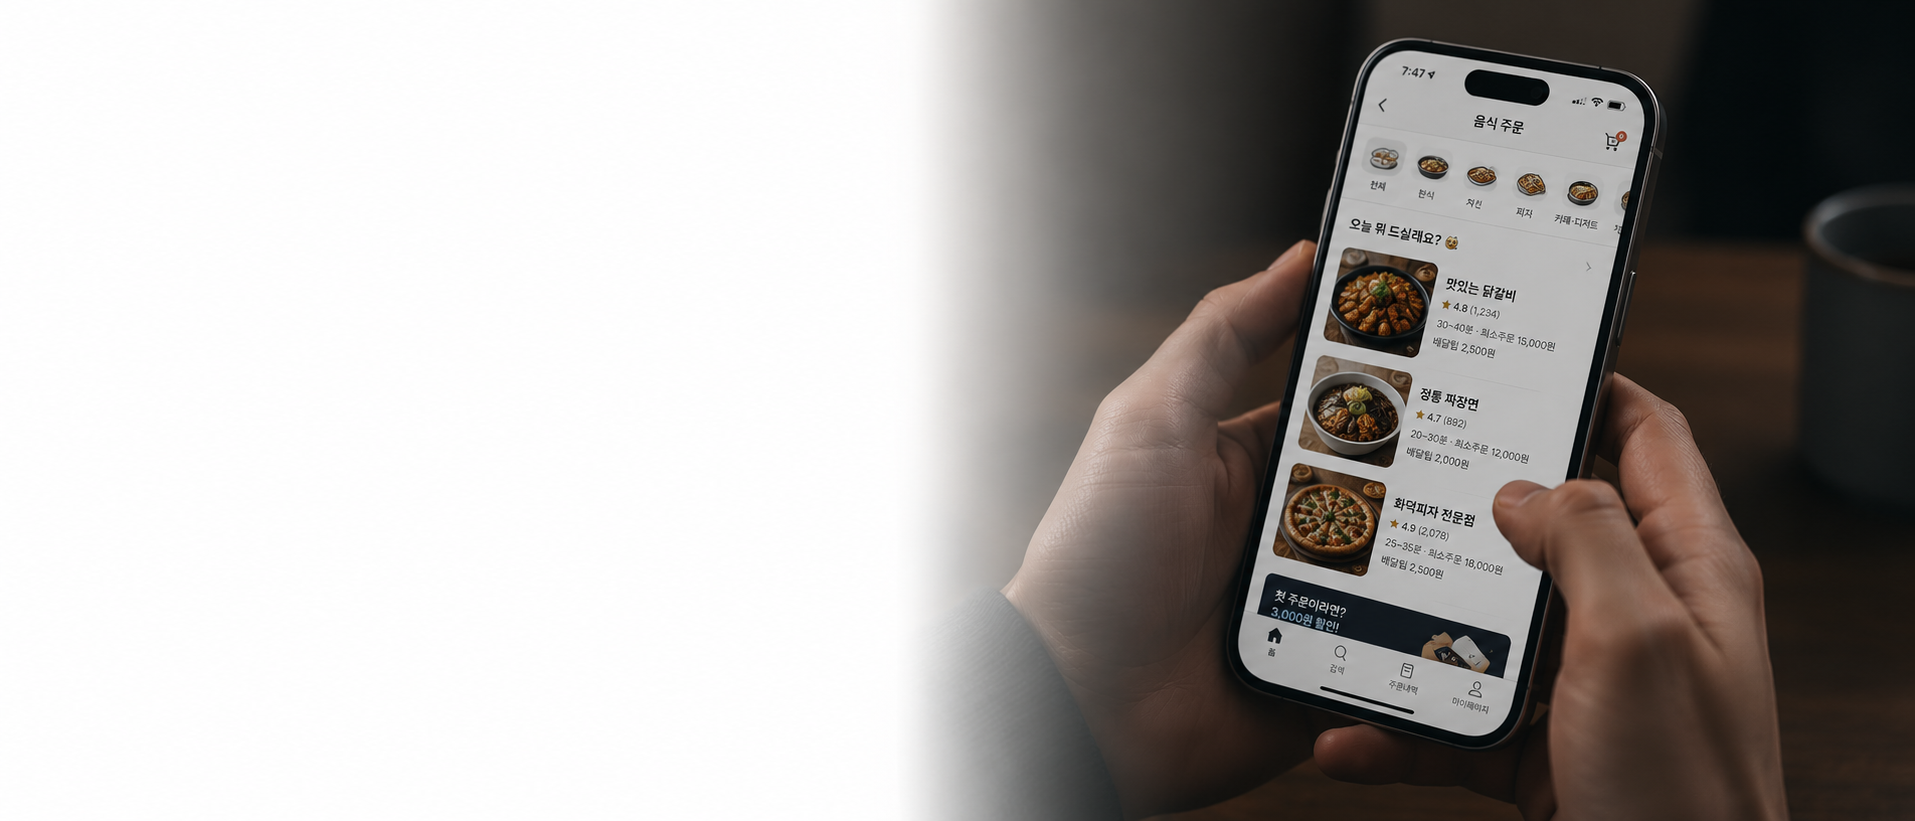
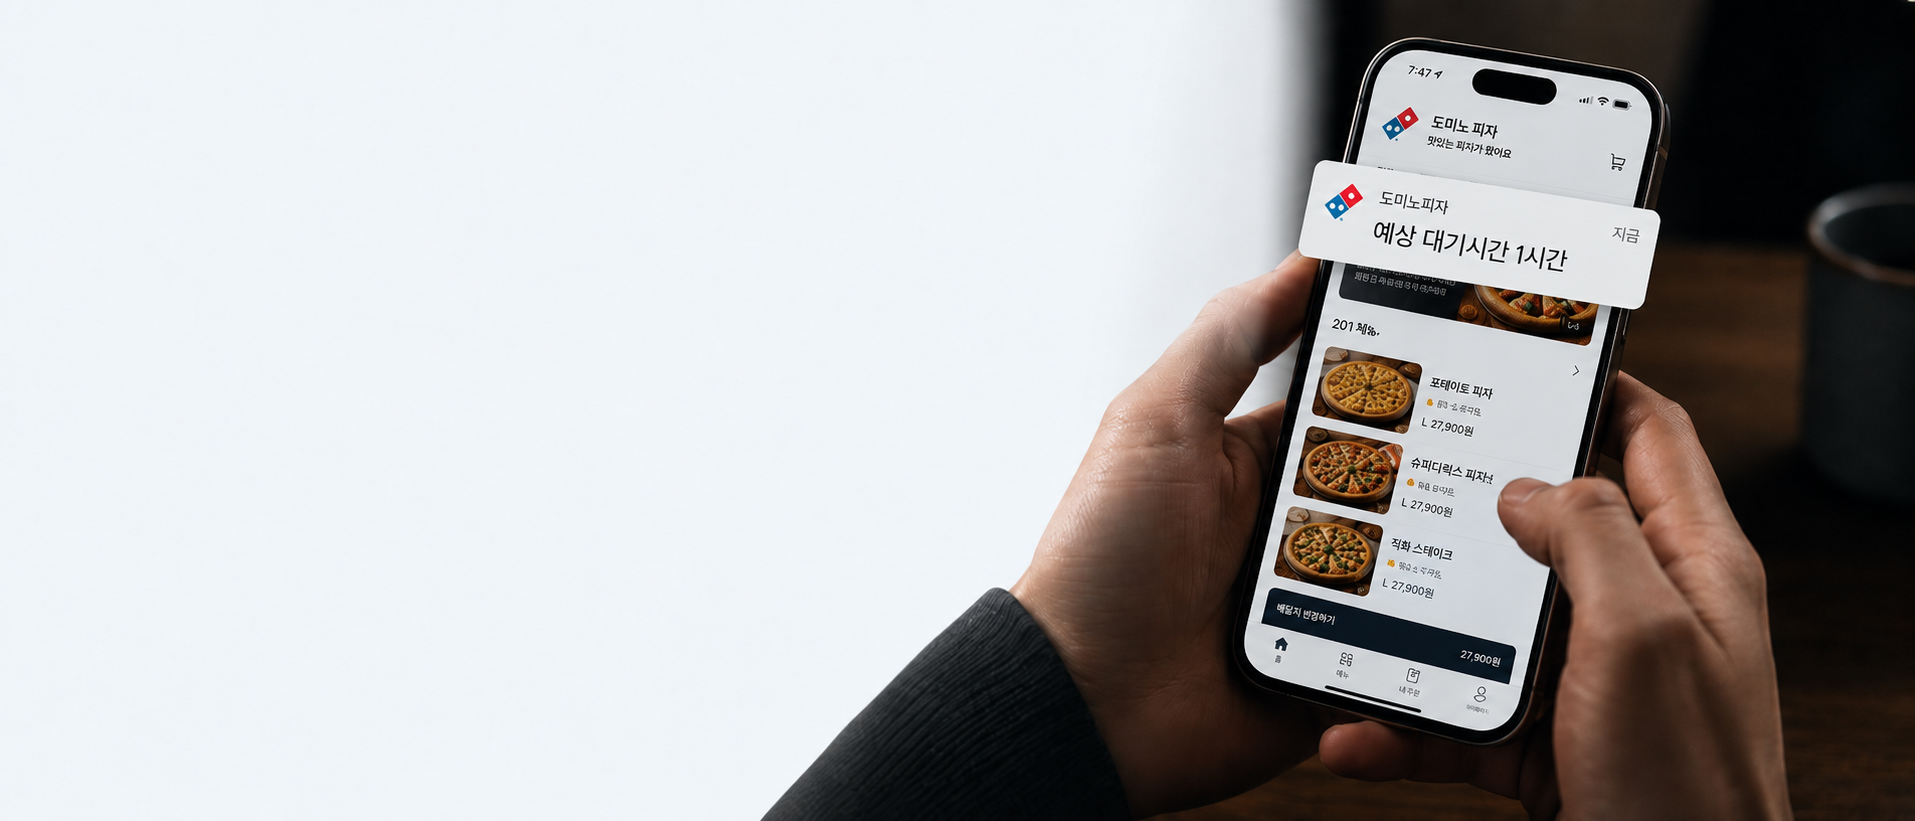
Add files via upload

Changed region(s): [[0.4005, 0.0, 0.9243, 1.0], [0.9551, 0.2436, 0.9859, 0.2741]]

diff --git a/styles.css b/styles.css
@@ -9,6 +9,7 @@
   --paper: #f5fbff;
   --line: rgba(8, 35, 69, .13);
   --shadow: 0 26px 80px rgba(0, 61, 123, .18);
+  --sky-gradient: linear-gradient(90deg, #07b7ee 0%, #2acdf4 52%, #00a9df 100%);
 }
 
 * { box-sizing: border-box; }
@@ -23,23 +24,23 @@ button, a { -webkit-tap-highlight-color: transparent; }
 .ticker b { color: var(--yellow); }
 @keyframes marquee { to { transform: translateX(-50%); } }
 
-.site-header { position: absolute; z-index: 30; top: 34px; left: 0; width: 100%; height: 88px; padding: 0 clamp(30px, 5vw, 86px); display: flex; align-items: center; gap: 50px; border-bottom: 1px solid rgba(255,255,255,.42); }
-.brand img { width: 174px; }
-.site-header nav { display: flex; gap: 34px; margin-left: auto; color: white; font-size: 14px; font-weight: 800; }
+.site-header { position: fixed; z-index: 30; top: 0; left: 0; width: 100%; height: 70px; padding: 0 clamp(30px, 5vw, 86px); display: flex; align-items: center; gap: 44px; background: rgba(255,255,255,.8); border-bottom: 1px solid rgba(255,255,255,.88); box-shadow: 0 8px 28px rgba(0,78,140,.08); backdrop-filter: blur(14px); -webkit-backdrop-filter: blur(14px); }
+.brand img { width: 150px; }
+.site-header nav { display: flex; gap: 34px; margin-left: auto; color: var(--navy); font-size: 14px; font-weight: 800; }
 .site-header nav a { position: relative; }
-.site-header nav a::after { content: ""; position: absolute; left: 0; bottom: -8px; width: 0; height: 2px; background: white; transition: width .25s ease; }
+.site-header nav a::after { content: ""; position: absolute; left: 0; bottom: -8px; width: 0; height: 2px; background: var(--blue); transition: width .25s ease; }
 .site-header nav a:hover::after { width: 100%; }
-.header-cta { padding: 14px 22px; color: white; background: var(--red); border-radius: 4px; font-size: 14px; font-weight: 900; box-shadow: 0 10px 24px rgba(181, 0, 26, .24); transition: transform .2s ease; }
+.header-cta { padding: 11px 19px; color: white; background: var(--red); border-radius: 4px; font-size: 13px; font-weight: 900; box-shadow: 0 10px 24px rgba(181, 0, 26, .24); transition: transform .2s ease; }
 .header-cta:hover { transform: translateY(-2px); }
 
 .section-grid { display: grid; grid-template-columns: 38% 62%; }
-.hero { position: relative; min-height: 830px; padding-top: 122px; overflow: hidden; color: white; background: linear-gradient(135deg, #07b7ee 0%, #2acdf4 52%, #00a9df 100%); }
+.hero { position: relative; min-height: 880px; padding-top: 122px; overflow: hidden; color: white; background: var(--sky-gradient); }
 .hero::before { content: ""; position: absolute; inset: 0; opacity: .38; background-image: linear-gradient(120deg, transparent 46%, rgba(255,255,255,.18) 46%, rgba(255,255,255,.18) 47%, transparent 47%), radial-gradient(circle at 20% 30%, white 0 2px, transparent 3px); background-size: 100% 100%, 180px 180px; }
-.hero::after { content: ""; position: absolute; left: -5%; right: -5%; bottom: -95px; height: 180px; background: var(--paper); transform: rotate(-2.5deg); z-index: 8; }
+.hero::after { display: none; }
 .hero-copy { position: relative; z-index: 10; align-self: center; padding: 45px 0 95px clamp(30px, 6vw, 100px); }
 .eyebrow { display: inline-flex; align-items: center; gap: 9px; margin-bottom: 12px; font-size: 12px; font-weight: 900; letter-spacing: .12em; transform: translateY(-18px); }
 .eyebrow i { width: 8px; height: 8px; border-radius: 50%; background: var(--red); box-shadow: 0 0 0 5px rgba(227,24,55,.2); }
-.campaign-title { width: min(610px, 112%); height: auto; max-width: none; margin: -8px 0 2px -24px; filter: drop-shadow(0 10px 10px rgba(0, 75, 140, .2)); }
+.campaign-title { width: min(700px, 128%); height: auto; max-width: none; margin: -12px 0 2px -30px; filter: drop-shadow(0 10px 10px rgba(0, 75, 140, .2)); }
 .hero h1, .section-heading h2, .benefit h2, .how h2, .final-cta h2 { margin: 0; font-size: clamp(42px, 4vw, 68px); line-height: 1.08; letter-spacing: -.055em; font-weight: 950; }
 em { color: var(--yellow); font-style: normal; }
 .hero-sub { margin: 25px 0 28px; font-size: 17px; line-height: 1.75; }
@@ -50,24 +51,22 @@ em { color: var(--yellow); font-style: normal; }
 .primary-cta b { grid-column: 1; font-size: 17px; align-self: start; }
 .primary-cta .arrow { grid-column: 2; grid-row: 1 / 3; width: 42px; height: 42px; display: grid; place-items: center; color: var(--navy); background: white; border-radius: 50%; font-size: 22px; }
 .primary-cta:hover { transform: translateY(-4px); box-shadow: 0 20px 42px rgba(0, 34, 83, .36); }
-.hero .primary-cta { min-width: 340px; min-height: 80px; padding: 13px 18px 13px 26px; }
-.hero .primary-cta > span:first-child { font-size: 13px; line-height: 1.35; opacity: .82; }
-.hero .primary-cta b { font-size: 22px; line-height: 1.25; }
-.hero .primary-cta .arrow { width: 48px; height: 48px; font-size: 25px; }
-.text-link { padding-bottom: 5px; border-bottom: 1px solid rgba(255,255,255,.7); font-size: 13px; font-weight: 800; }
+.hero .primary-cta { min-width: 0; width: auto; min-height: 58px; padding: 0 8px 0 28px; display: flex; align-items: center; justify-content: center; gap: 18px; background: var(--red); }
+.hero .primary-cta b { grid-column: auto; align-self: auto; font-size: 20px; line-height: 1; white-space: nowrap; }
+.hero .primary-cta .arrow { grid-column: auto; grid-row: auto; width: 34px; height: 34px; color: var(--red); background: white; font-size: 19px; }
+.text-link { padding: 6px 12px; display: inline-flex; align-items: center; gap: 7px; border-bottom: 1px solid rgba(255,255,255,.7); font-size: 13px; font-weight: 800; line-height: 1.2; text-align: left; }
+.text-link .link-copy { display: flex; flex-direction: column; align-items: flex-start; }
+.text-link .link-copy b { min-width: 2em; font: inherit; }
+.text-link .down-arrow { font-size: 15px; }
 .trust-list { display: flex; gap: 10px; padding: 0; margin: 28px 0 0; list-style: none; }
 .trust-list li { padding: 8px 12px; border: 1px solid rgba(255,255,255,.48); border-radius: 20px; font-size: 11px; font-weight: 800; backdrop-filter: blur(6px); }
 
 .hero-visual { position: relative; min-width: 0; z-index: 6; }
 .sun-glow { position: absolute; width: 540px; height: 540px; top: 90px; right: 7%; border-radius: 50%; background: rgba(255,255,255,.2); box-shadow: 0 0 120px rgba(255,255,255,.35); }
-.hero-people { position: absolute; z-index: 3; width: min(1360px, 137%); max-width: none; right: -19%; bottom: 0; filter: drop-shadow(0 30px 30px rgba(0,76,133,.18)); animation: heroIn 1s cubic-bezier(.17,.84,.44,1) both; transform-origin: bottom center; }
+.hero-people { position: absolute; z-index: 3; width: min(1620px, 163%); max-width: none; right: -29%; bottom: -8px; filter: drop-shadow(0 30px 30px rgba(0,76,133,.18)); animation: heroIn 1s cubic-bezier(.17,.84,.44,1) both; transform-origin: bottom center; }
 @keyframes heroIn { from { opacity: 0; transform: translate(50px, 40px) scale(.97); } }
 .hero-pizza { position: absolute; z-index: 5; width: 260px; right: 2%; bottom: 18px; filter: drop-shadow(0 24px 20px rgba(17,51,67,.36)); animation: floatPizza 4s ease-in-out infinite; }
 @keyframes floatPizza { 50% { transform: translateY(-13px) rotate(2deg); } }
-.discount-sticker { position: absolute; z-index: 7; top: 180px; left: 3%; width: 148px; height: 148px; display: flex; flex-direction: column; align-items: center; justify-content: center; color: white; background: var(--red); border-radius: 50%; box-shadow: 0 13px 0 #ae0924, 0 30px 50px rgba(0,68,115,.25); transform: rotate(-8deg); }
-.discount-sticker::before { content: ""; position: absolute; inset: 7px; border: 2px dashed rgba(255,255,255,.75); border-radius: inherit; }
-.discount-sticker small, .discount-sticker b { position: relative; font-size: 10px; }
-.discount-sticker strong { position: relative; font-size: 49px; line-height: 1; letter-spacing: -.08em; }
 .match-tag { position: absolute; z-index: 8; right: 30%; bottom: 94px; padding: 12px 19px; color: white; background: rgba(6,27,63,.9); border-left: 4px solid var(--yellow); box-shadow: 0 12px 30px rgba(0,0,0,.15); transform: rotate(-2deg); }
 .match-tag span { display: block; font-size: 9px; opacity: .67; }
 .match-tag b { font-size: 15px; letter-spacing: .04em; }
@@ -78,18 +77,17 @@ em { color: var(--yellow); font-style: normal; }
 .scroll-hint { position: absolute; z-index: 12; bottom: 65px; left: 49%; display: flex; align-items: center; gap: 10px; color: var(--navy); font-size: 9px; font-weight: 900; letter-spacing: .2em; transform: rotate(90deg); }
 .scroll-hint i { width: 44px; height: 1px; background: var(--navy); }
 
-.problem { min-height: 760px; padding: 140px clamp(30px, 8vw, 140px) 100px; display: grid; grid-template-columns: 40% 60%; gap: 60px; align-items: center; background: var(--paper); }
+.problem { position: relative; z-index: 9; min-height: 846px; margin-top: -86px; padding: 226px clamp(30px, 8vw, 140px) 100px; display: flex; align-items: center; background-image: url("assets/order-wait-phone.png"), var(--sky-gradient); background-position: calc(100% + 55px) center, center; background-size: auto 84%, cover; background-repeat: no-repeat; clip-path: polygon(0 86px, 100% 0, 100% 100%, 0 100%); overflow: hidden; }
+.problem::before { content: ""; position: absolute; top: 0; bottom: 0; left: 0; width: 58%; background: linear-gradient(90deg, rgba(0,38,92,.72) 0%, rgba(0,73,139,.5) 56%, transparent 100%); pointer-events: none; }
+.problem .section-heading { position: relative; z-index: 2; width: min(600px, 44%); }
+.problem .section-no { color: var(--yellow); }
+.problem .section-heading h2 { color: white; text-shadow: 0 4px 18px rgba(0,71,133,.16); }
+.problem .section-heading h2 em { color: var(--yellow); }
+.problem .section-heading p { color: rgba(255,255,255,.86); }
 .section-no { display: block; margin-bottom: 24px; color: var(--blue); font-size: 11px; font-weight: 950; letter-spacing: .16em; }
 .section-heading h2 { font-size: clamp(44px, 4vw, 66px); }
 .section-heading h2 em { color: var(--red); }
 .section-heading p, .benefit-copy > p, .how-heading p { margin: 27px 0 0; color: #5d6c80; font-size: 16px; line-height: 1.8; }
-.problem-visual { position: relative; height: 520px; border-radius: 34px; background: #f8f8f8 url("assets/order-delay-bg.png") center center / cover no-repeat; overflow: hidden; box-shadow: var(--shadow); }
-.problem-visual::after { content: ""; position: absolute; inset: 0; background: linear-gradient(90deg, rgba(255,255,255,.24) 0%, transparent 52%); pointer-events: none; }
-.problem-message { position: absolute; z-index: 2; left: 6%; top: 31%; color: var(--navy); }
-.problem-message span { display: inline-block; padding: 8px 12px; color: white; background: var(--red); border-radius: 4px; font-size: 11px; font-weight: 950; }
-.problem-message strong { display: block; margin-top: 15px; font-size: 40px; letter-spacing: -.05em; }
-.problem-message p { color: #617086; font-weight: 700; line-height: 1.7; }
-
 .benefit { min-height: 850px; display: grid; grid-template-columns: 42% 58%; }
 .benefit-30 { color: var(--ink); background: #dff7ff; }
 .benefit-copy { padding: 140px 40px 110px clamp(30px, 8vw, 140px); align-self: center; }
@@ -101,20 +99,15 @@ em { color: var(--yellow); font-style: normal; }
 .date-board small { color: #67758a; font-size: 10px; }
 .date-board b { font-size: 17px; }
 .date-board span { color: var(--red); font-weight: 950; }
-.dark-cta { width: 100%; min-height: 58px; padding: 0 21px; display: flex; align-items: center; justify-content: space-between; color: white; background: var(--navy); border-radius: 5px; font-size: 14px; font-weight: 900; transition: background .2s ease, transform .2s ease; }
-.dark-cta:hover { background: var(--red); transform: translateY(-3px); }
+.dark-cta { width: 270px; min-height: 58px; padding: 0 18px; display: flex; align-items: center; justify-content: space-between; color: white; background: var(--red); border-radius: 5px; font-size: 14px; font-weight: 900; transition: background .2s ease, transform .2s ease; }
+.dark-cta:hover { background: #bd102b; transform: translateY(-3px); }
 .benefit-visual { position: relative; min-width: 0; overflow: hidden; background: linear-gradient(145deg, #fff 0 20%, #b8ebfb 20% 100%); }
 .benefit-visual::after { content: "RESERVATION"; position: absolute; right: -20px; bottom: 12px; color: rgba(0,79,142,.07); font-size: 90px; font-weight: 950; }
-.step-phone-one, .step-phone-two { position: absolute; z-index: 2; width: 45%; max-width: 410px; filter: drop-shadow(0 30px 30px rgba(0, 77, 128, .2)); transition: transform .4s ease; }
-.step-phone-one { left: 8%; top: 160px; transform: rotate(-6deg); }
-.step-phone-two { right: 7%; top: 92px; transform: rotate(7deg); }
-.benefit-visual:hover .step-phone-one { transform: rotate(-3deg) translateY(-10px); }
-.benefit-visual:hover .step-phone-two { transform: rotate(3deg) translateY(10px); }
+.benefit-pizza-lift { position: absolute; z-index: 2; width: min(830px, 92%); max-width: none; left: 3%; top: 50%; transform: translateY(-50%); filter: drop-shadow(0 38px 30px rgba(0, 66, 108, .28)); animation: benefitPizzaFloat 4.5s ease-in-out infinite; }
+@keyframes benefitPizzaFloat { 0%, 100% { transform: translateY(-50%) rotate(-1deg); } 50% { transform: translateY(calc(-50% - 20px)) rotate(1deg); } }
 .delivery-badge { position: absolute; z-index: 4; right: 7%; bottom: 90px; width: 155px; height: 155px; display: grid; place-content: center; text-align: center; color: white; background: var(--red); border-radius: 50%; box-shadow: 0 18px 0 #bd0d28, 0 30px 40px rgba(0,68,112,.22); transform: rotate(8deg); }
 .delivery-badge span, .delivery-badge small { font-size: 10px; font-weight: 950; letter-spacing: .15em; }
 .delivery-badge b { font-size: 51px; line-height: .95; }
-.step-line { position: absolute; z-index: 1; left: 13%; right: 13%; top: 52%; display: flex; align-items: center; gap: 10px; color: var(--blue); font-size: 10px; font-weight: 950; }
-.step-line i { flex: 1; height: 2px; background: repeating-linear-gradient(90deg, var(--blue) 0 8px, transparent 8px 16px); }
 
 .benefit-40 { min-height: 760px; grid-template-columns: 40% 60%; color: white; background: var(--red); }
 .victory-copy { position: relative; z-index: 2; padding: 130px 40px 110px clamp(30px, 8vw, 140px); background: linear-gradient(145deg, #d8092c, #ed2242); }
@@ -167,7 +160,8 @@ em { color: var(--yellow); font-style: normal; }
 .final-copy h2 { font-size: clamp(48px, 4.4vw, 72px); }
 .final-copy h2 em { color: var(--yellow); }
 .final-copy p { margin: 24px 0 30px; color: #b6c8df; line-height: 1.75; }
-.primary-cta.white { max-width: 315px; color: var(--navy); background: white; }
+.primary-cta.white { max-width: 315px; display: flex; align-items: center; justify-content: space-between; color: var(--navy); background: white; }
+.primary-cta.white b { grid-column: auto; align-self: center; line-height: 1.2; }
 .primary-cta.white .arrow { color: white; background: var(--red); }
 .final-visual { position: relative; }
 .final-visual::before { content: ""; position: absolute; width: 650px; height: 650px; right: 2%; top: 5%; border: 1px solid rgba(255,255,255,.12); border-radius: 50%; box-shadow: 0 0 0 70px rgba(255,255,255,.025), 0 0 0 140px rgba(255,255,255,.02); }
@@ -193,41 +187,35 @@ footer a { margin-left: auto; color: white; font-weight: 900; }
 
 @media (max-width: 1100px) {
   .site-header nav { display: none; }
-  .section-grid, .problem, .benefit, .final-cta { grid-template-columns: 1fr; }
-  .hero { min-height: 1050px; }
+  .section-grid, .benefit, .final-cta { grid-template-columns: 1fr; }
+  .hero { min-height: 1060px; }
   .hero-copy { padding-right: 30px; }
   .hero-visual { min-height: 500px; }
-  .hero-people { width: 1140px; right: -25%; }
-  .problem { gap: 30px; }
+  .hero-people { width: 1370px; right: -37%; }
+  .problem .section-heading { width: min(560px, 54%); }
   .benefit-visual { min-height: 700px; }
   .benefit-40 .victory-visual { min-height: 650px; }
   .final-visual { min-height: 520px; }
 }
 
 @media (max-width: 720px) {
-  .site-header { padding: 0 20px; height: 72px; }
-  .brand img { width: 130px; }
-  .header-cta { padding: 12px 14px; font-size: 12px; }
+  .site-header { padding: 0 20px; height: 62px; }
+  .brand img { width: 125px; }
+  .header-cta { padding: 10px 13px; font-size: 11px; }
   .hero { padding-top: 106px; min-height: 970px; }
   .hero h1 { font-size: 40px; }
-  .campaign-title { width: min(560px, 125%); height: auto; margin-left: -22px; }
+  .campaign-title { width: min(630px, 140%); height: auto; margin-left: -28px; }
   .hero-actions { align-items: flex-start; flex-direction: column; }
   .hero-visual { min-height: 400px; }
-  .hero-people { width: 880px; right: -59%; bottom: 10px; }
+  .hero-people { width: 1050px; right: -76%; bottom: -4px; }
   .hero-pizza { width: 190px; }
-  .discount-sticker { width: 115px; height: 115px; top: 40px; }
-  .discount-sticker strong { font-size: 37px; }
   .match-tag { right: 5%; }
-  .problem { padding: 100px 20px 70px; }
-  .problem-visual { height: 500px; }
-  .problem-visual { height: 430px; background-position: 58% center; }
-  .problem-message { left: 20px; top: 24%; text-align: left; }
-  .problem-message strong { font-size: 28px; }
+  .problem { min-height: 746px; margin-top: -66px; padding: 166px 20px 70px; background-position: calc(100% + 75px) center, center; background-size: auto 72%, cover; clip-path: polygon(0 66px, 100% 0, 100% 100%, 0 100%); }
+  .problem::before { width: 74%; background: linear-gradient(90deg, rgba(0,38,92,.72) 0%, rgba(0,73,139,.5) 62%, transparent 100%); }
+  .problem .section-heading { width: 72%; }
   .benefit-copy, .victory-copy { padding: 100px 20px 70px; }
   .benefit-visual { min-height: 520px; }
-  .step-phone-one, .step-phone-two { width: 55%; }
-  .step-phone-one { left: 0; }
-  .step-phone-two { right: 0; }
+  .benefit-pizza-lift { width: 105%; left: -7%; }
   .delivery-badge { width: 120px; height: 120px; }
   .delivery-badge b { font-size: 40px; }
   .victory-visual img { width: 90%; left: 4%; top: 28%; }

diff --git a/index.html b/index.html
@@ -32,12 +32,12 @@
       <div class="hero-copy reveal">
         <span class="eyebrow"><i></i> 도미노 온라인 회원 전용</span>
         <img class="campaign-title" src="assets/campaign-title.png" alt="대한민국 파이팅! 사전예약하고 즐기자!">
-        <p class="hero-sub">월드컵 응원 피자, 하루 전 앱으로 예약하면<br><strong>피자(L) 배달 30% 할인</strong>으로 여유롭게 도착!</p>
+        <p class="hero-sub">월드컵 응원 피자, 하루 전 앱으로 예약하면<br><strong>피자(L) 배달 30% 할인</strong>  으로 여유롭게 도착!</p>
         <div class="hero-actions">
           <a class="primary-cta" href="https://web.dominos.co.kr/main" target="_blank" rel="noreferrer">
-            <span>도미노 앱으로 사전예약</span><b>지금 주문하기</b><span class="arrow">→</span>
+            <b>지금 예약하기</b><span class="arrow">→</span>
           </a>
-          <a class="text-link" href="#benefit-30">혜택 먼저 보기 ↓</a>
+          <a class="text-link" href="#benefit-30"><span class="link-copy"><b>혜택</b><b>보기</b></span><span class="down-arrow">↓</span></a>
         </div>
         <ul class="trust-list" aria-label="프로모션 핵심 조건">
           <li>공식 앱 예약</li>
@@ -50,11 +50,6 @@
         <div class="sun-glow"></div>
         <div class="ball ball-one">⚽</div>
         <div class="ball ball-two">⚽</div>
-        <div class="discount-sticker">
-          <small>하루 전 예약하면</small>
-          <strong><span class="count" data-count="30">30</span>%</strong>
-          <b>배달 할인</b>
-        </div>
         <img class="hero-people" src="assets/son-hero.png" alt="">
         <img class="hero-pizza" src="assets/pizza.png" alt="">
         <div class="match-tag"><span>대한민국 경기일</span><b>6.12 · 6.19 · 6.25</b></div>
@@ -65,15 +60,8 @@
     <section class="problem" id="problem">
       <div class="section-heading reveal">
         <span class="section-no">01 / GAME DAY PROBLEM</span>
-        <h2>경기 시작 30분 전,<br><em>주문부터 막히면</em> 응원도 늦습니다.</h2>
-        <p>몰리는 주문, 길어지는 배달 시간, 놓치는 킥오프.<br>응원 준비는 경기 전날 끝내는 게 가장 확실합니다.</p>
-      </div>
-      <div class="problem-visual">
-        <div class="problem-message">
-          <span>킥오프까지 28분</span>
-          <strong>아직도 주문 중?</strong>
-          <p>전날 예약 한 번이면<br>경기 날은 문만 열면 됩니다.</p>
-        </div>
+        <h2>경기 보면서 먹고 싶은데 주문이 너무<br><em>오래 걸린다면?</em></h2>
+        <p>도미노에서 경기 전날에<br>예약하고, 제때 먹고, 혜택받아 보자!</p>
       </div>
     </section>
 
@@ -81,8 +69,8 @@
       <div class="benefit-copy reveal">
         <span class="section-no">02 / BENEFIT ONE</span>
         <p class="mini-title">경기 전날, 앱으로 미리 주문</p>
-        <h2>기다림은 줄이고<br>피자값은 <em><span class="count" data-count="30">30</span>%</em> 줄이세요.</h2>
-        <p>6/12, 6/19, 6/25에 받을 피자를 하루 전에 예약하면 피자(L) 배달이 30% 할인됩니다.</p>
+        <h2>기다림도 줄이고<br>피자값도 <em><span class="count" data-count="30">30</span>%</em><br>줄이세요</h2>
+        <p>6/12, 6/19, 6/25에 받을 피자를 하루 전에 예약하면 피자(L) 배달이 30% 할인됩니다</p>
         <div class="date-board">
           <div><small>예약 주문</small><b>6.11</b><span>→</span><small>배달 받기</small><b>6.12</b></div>
           <div><small>예약 주문</small><b>6.18</b><span>→</span><small>배달 받기</small><b>6.19</b></div>
@@ -92,9 +80,7 @@
       </div>
       <div class="benefit-visual reveal">
         <div class="delivery-badge"><span>DELIVERY</span><b>30%</b><small>OFF</small></div>
-        <img class="step-phone-one" src="assets/phone-step-1.png" alt="장바구니에서 예약 설정을 선택하는 화면">
-        <img class="step-phone-two" src="assets/phone-step-2.png" alt="다음 날 받을 날짜를 선택하는 예약 설정 화면">
-        <div class="step-line"><i></i><span>딱 2 STEP</span><i></i></div>
+        <img class="benefit-pizza-lift" src="assets/pizza-lift.png" alt="치즈가 길게 늘어나는 하프앤하프 피자">
       </div>
     </section>
 
@@ -117,13 +103,13 @@
     <section class="how" id="how">
       <div class="how-heading reveal">
         <span class="section-no">04 / HOW TO ORDER</span>
-        <h2>예약 주문은<br><em>두 번의 터치</em>면 끝.</h2>
-        <p>도미노 앱 장바구니에서 예약 설정만 선택하세요.</p>
+        <h2>예약 주문은<br><em>두 번의 터치</em>면 끝</h2>
+        <p>도미노 앱 장바구니에서 예약 설정만 선택하세요</p>
       </div>
       <div class="steps">
         <article class="step-card reveal">
           <div class="step-image"><img src="assets/phone-step-1.png" alt="도미노 앱 장바구니 예약 설정 버튼"></div>
-          <span>STEP 01</span><h3>장바구니에서<br>‘예약 설정’ 선택</h3><p>메뉴와 배달지를 선택한 뒤 예약 설정 버튼을 눌러주세요.</p>
+          <span>STEP 01</span><h3>장바구니에서<br>‘예약 설정’ 선택</h3><p>메뉴와 배달지를 선택한 뒤 예약 설정 버튼을 눌러주세요</p>
         </article>
         <div class="step-arrow" aria-hidden="true">→</div>
         <article class="step-card reveal">
@@ -161,20 +147,20 @@
           <div>
             <h3>공통 안내</h3>
             <ul>
-              <li>온라인 회원 전용 혜택으로 비회원은 이용할 수 없습니다.</li>
-              <li>세트, 마이키친, 썹자를 제외한 모든 피자에 적용됩니다.</li>
-              <li>추가 토핑 금액을 제외한 피자 기본 가격에만 할인이 적용됩니다.</li>
-              <li>제휴 및 기타 할인, 목요일 1+1 프로모션과 중복 적용되지 않습니다.</li>
-              <li>1회 주문당 최대 2판까지 적용됩니다.</li>
+              <li>온라인 회원 전용 혜택으로 비회원은 이용할 수 없습니다</li>
+              <li>세트, 마이키친, 썹자를 제외한 모든 피자에 적용됩니다</li>
+              <li>추가 토핑 금액을 제외한 피자 기본 가격에만 할인이 적용됩니다</li>
+              <li>제휴 및 기타 할인, 목요일 1+1 프로모션과 중복 적용되지 않습니다</li>
+              <li>1회 주문당 최대 2판까지 적용됩니다</li>
             </ul>
           </div>
           <div>
             <h3>매장 및 쿠폰 안내</h3>
             <ul>
-              <li>비발디파크점, 롯데월드점, 알펜시아점, 잠실야구장점 등 일부 특수매장은 제외됩니다.</li>
-              <li>별도 제외 매장에서는 프로모션 및 쿠폰 사용이 제한됩니다.</li>
-              <li>승리 시 포장 40% 쿠폰은 승리 당일 15:00부터 순차적으로 일괄 지급됩니다.</li>
-              <li>본 프로모션은 당사 사정에 따라 사전 고지 없이 변경되거나 조기 종료될 수 있습니다.</li>
+              <li>비발디파크점, 롯데월드점, 알펜시아점, 잠실야구장점 등 일부 특수매장은 제외됩니다</li>
+              <li>별도 제외 매장에서는 프로모션 및 쿠폰 사용이 제한됩니다</li>
+              <li>승리 시 포장 40% 쿠폰은 승리 당일 15:00부터 순차적으로 일괄 지급됩니다</li>
+              <li>본 프로모션은 당사 사정에 따라 사전 고지 없이 변경되거나 조기 종료될 수 있습니다</li>
             </ul>
           </div>
         </div>
@@ -184,7 +170,7 @@
 
   <footer>
     <img src="assets/dominos-logo.png" alt="Domino's">
-    <p>대한민국 파이팅! 사전예약하고 즐기자.</p>
+    <p>대한민국 파이팅! 사전예약하고 즐기자</p>
     <a href="#top">TOP ↑</a>
   </footer>
   <script src="script.js"></script>